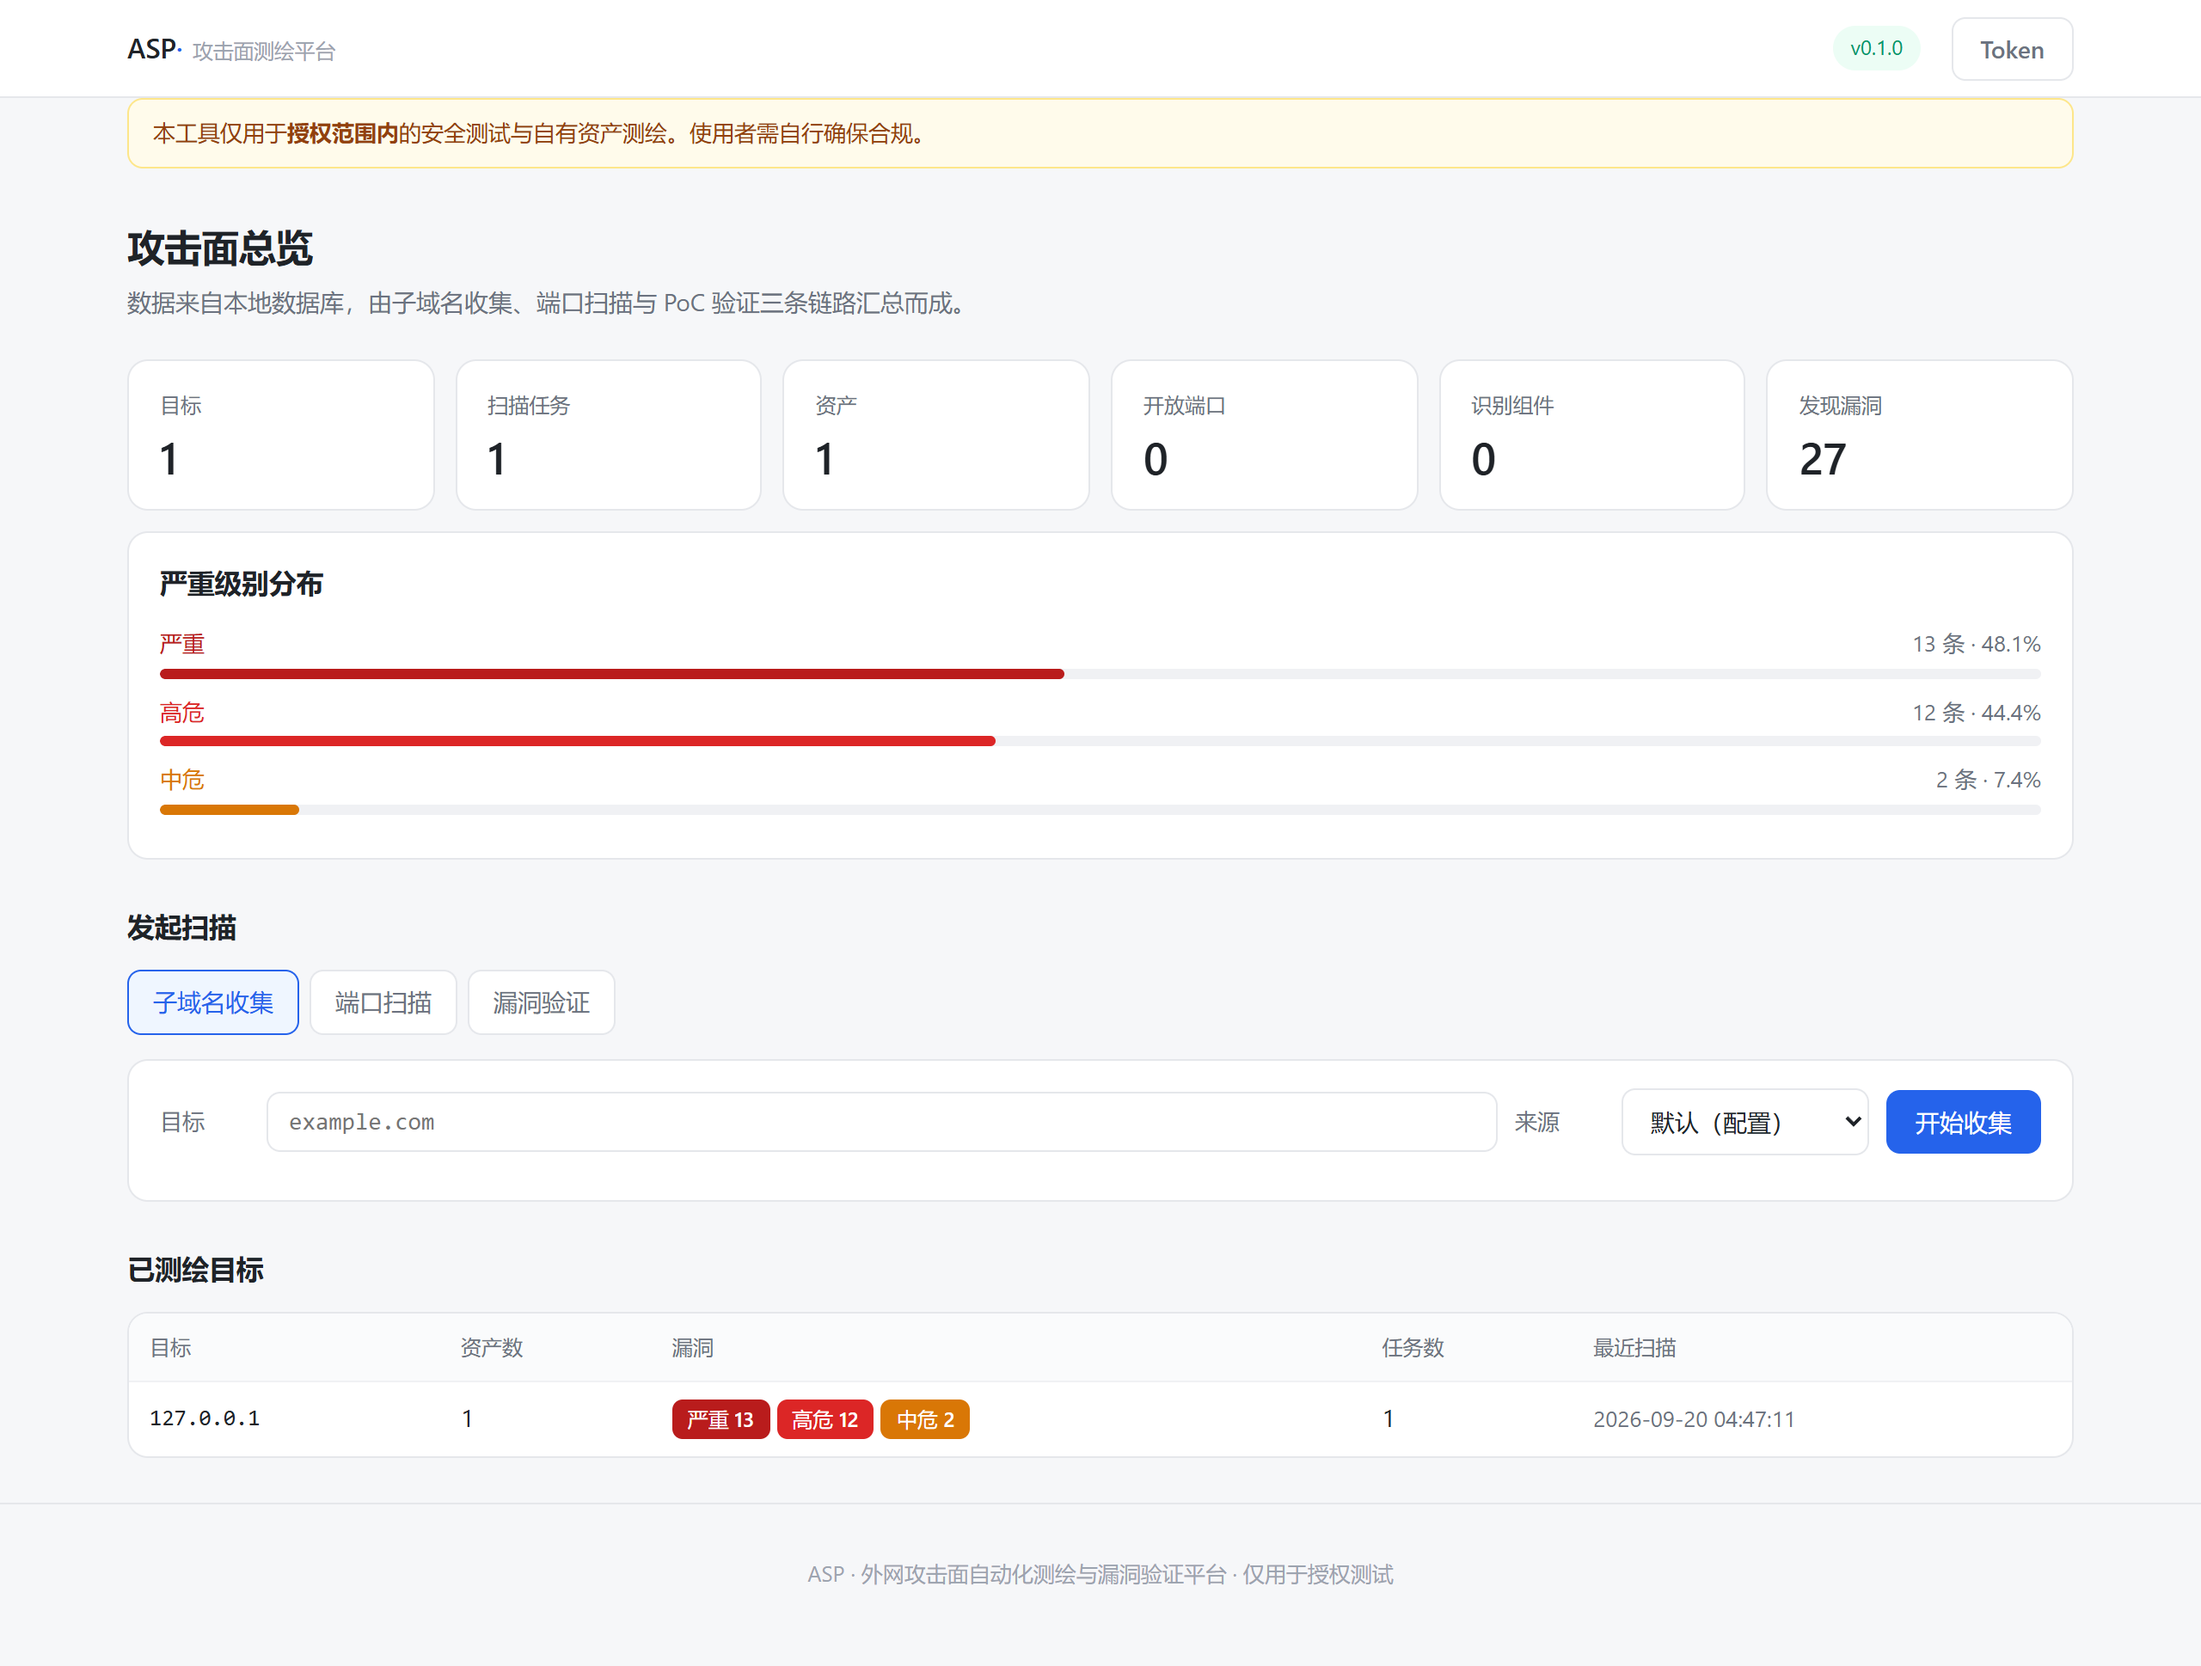
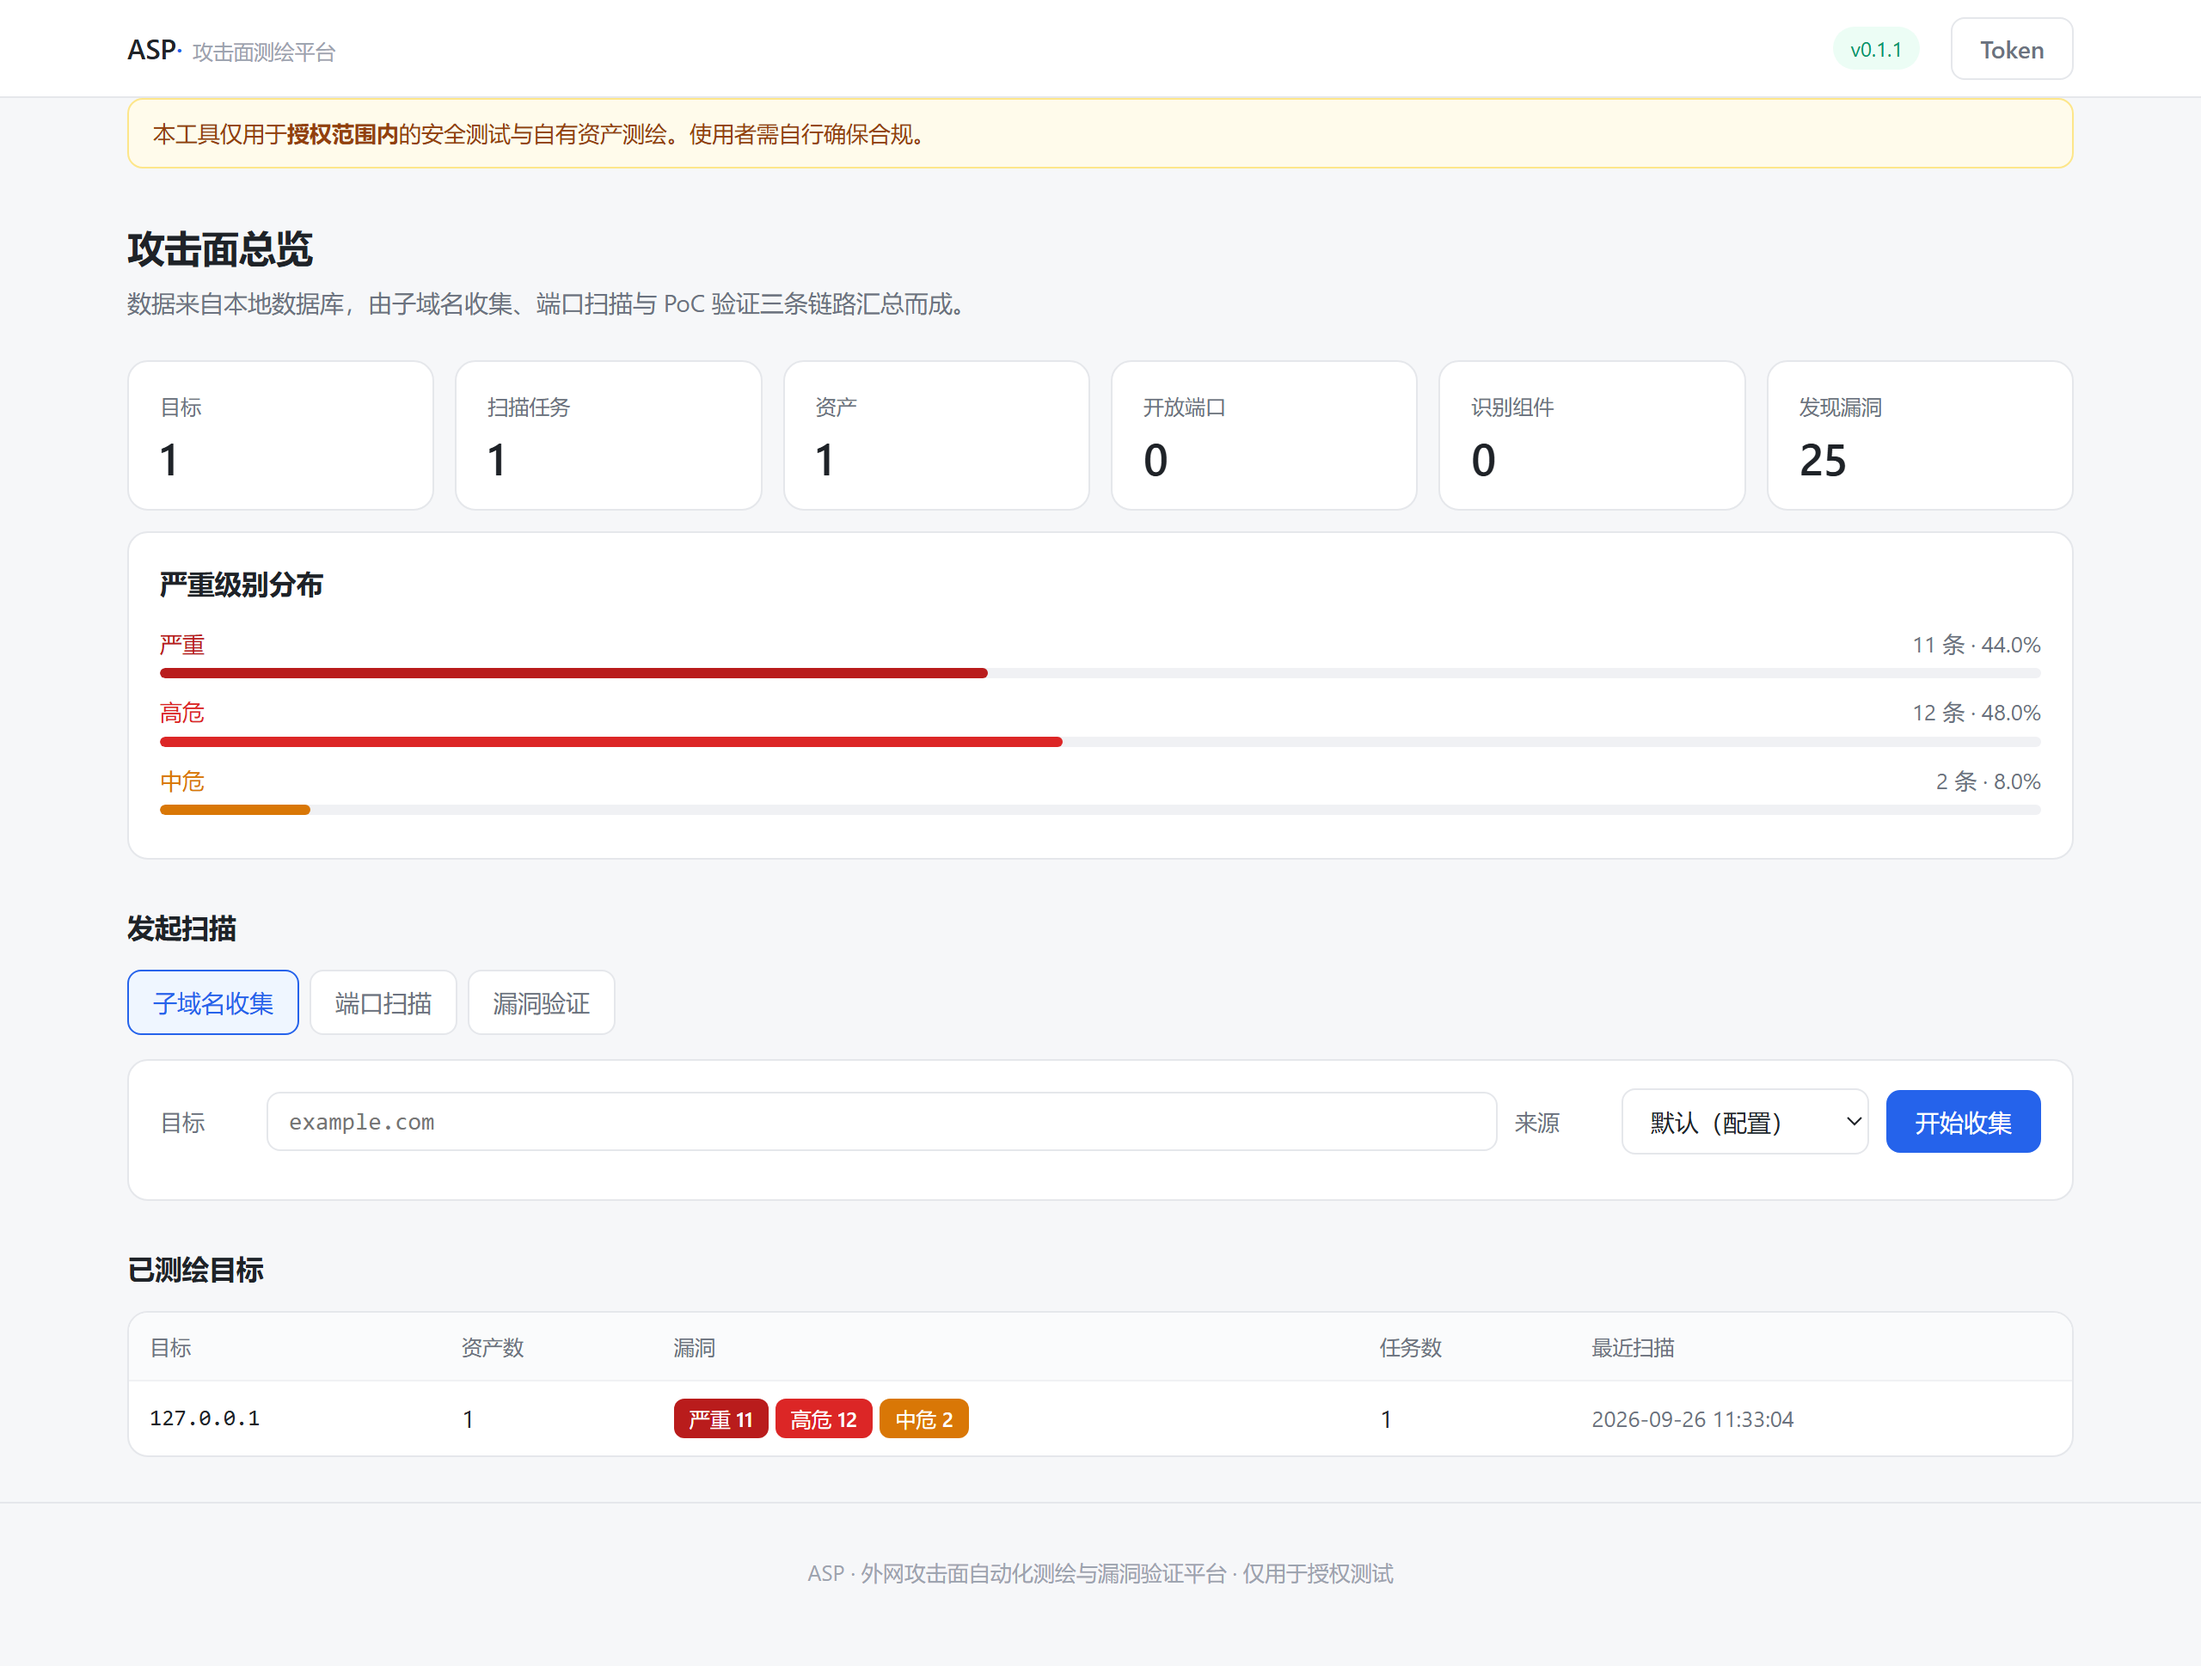
docs: 重拍看板截图（对齐 v0.1.1），修正 Windows 命中数
- 原图是 v0.1.0 时拍的，右上角版本角标已过期；按原图规格重拍
  （1280×969 逻辑分辨率 @2x → 2560×1938，与旧图尺寸一致）
- 图中数据为本次实跑：25 处命中（11 严重 / 12 高危 / 2 中危）
- 补一句图的 Windows 口径说明：Linux 下同一靶场多命中 XXE 的 2 处，
  合计 27 处（13 严重），避免图文互相矛盾
- 跨平台说明里的「24」按实测修正为「25」

diff --git a/README.md b/README.md
@@ -39,6 +39,10 @@ Python 3.11+ · asyncio · FastAPI 就绪 · SQLite/PostgreSQL · 自研 YAML Po
 上面这张是拿自带靶场（[vulnlab](https://github.com/hediwen831-star/vulnlab)）
 实测跑出来的真实数据，不是占位图。
 
+> 图为 **Windows** 环境下跑出的结果（25 处：11 严重 / 12 高危 / 2 中危）。
+> Linux 下同一靶场能多命中 XXE 场景的 2 处，合计 27 处（13 严重）——
+> 差异根因见下文「与 VulnLab 靶场联动」里的跨平台说明。
+
 ## 架构总览
 
 ```mermaid
@@ -550,7 +554,7 @@ high      vulnlab-sqli-low-union              .../sqli/low.php?id=-1%20UNION... 
 
 > ⚠ 「27 处命中 / 13 个场景」是靶场跑在 **Linux** 上的结果。
 > Windows 下 `php -S` 的 CWD 语义与 Linux 不同，靶场的 XXE 场景会失效，
-> 命中数降为 24（12 个场景）。详见 VulnLab 仓库的 `tests/verify_lab.py` 说明。
+> 命中数降为 25（12 个场景）。详见 VulnLab 仓库的 `tests/verify_lab.py` 说明。
 
 ### 目标不可达不会被报成「没有漏洞」
 
